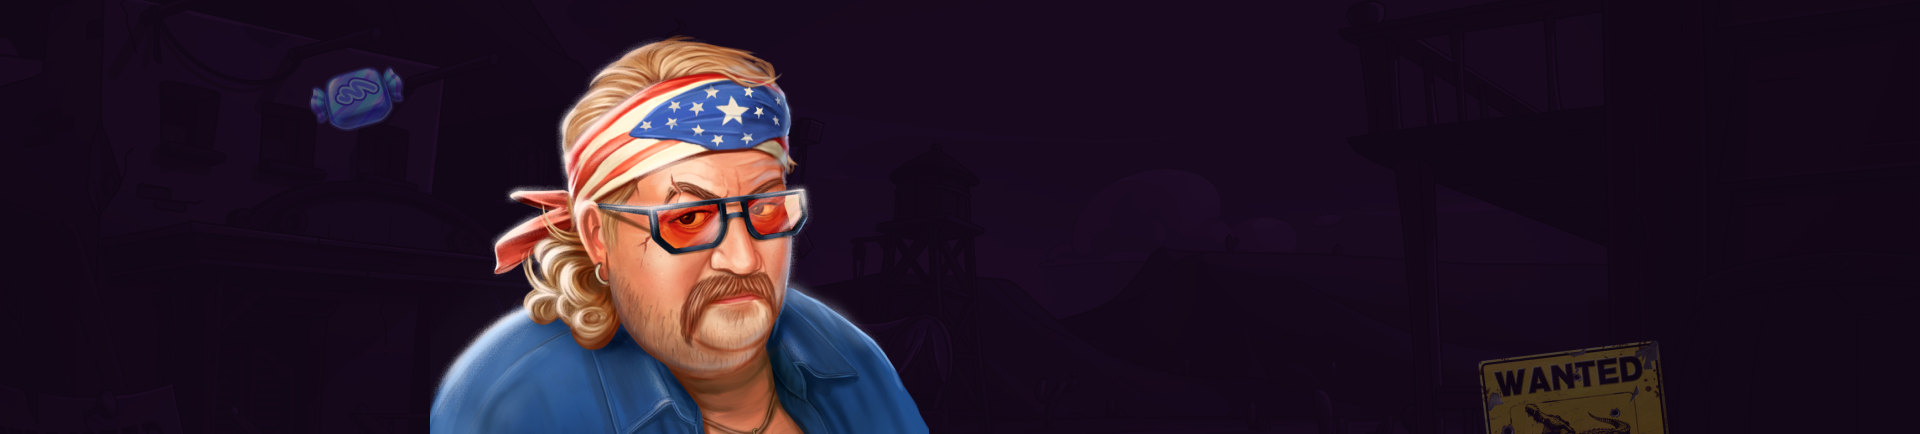
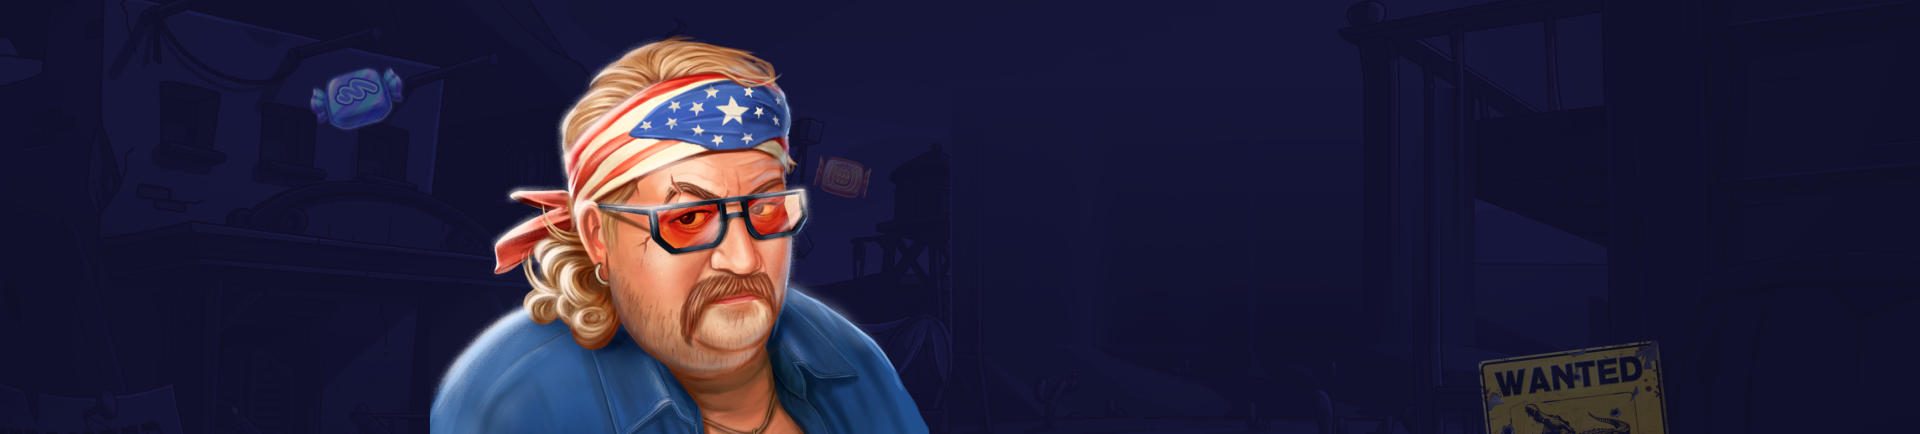
Fix VIP band colour and restore the frame's trailing space
The band rendered dark purple instead of the design's navy blue. The
artwork group exports fully opaque with its colour-dodge already
resolved against its own backdrop, so compositing it over #0e0e26 in
CSS could not recover the blend - measured (35,20,40) against a target
of (43,46,80), and no blend mode closed the gap.

vip-art.png is now Figma's render of the whole band, which composites
correctly, with the baked text painted out by vertical interpolation
across that region. The background there is near-uniform navy so the
patch is invisible, and the real copy is drawn over it as HTML.

Also adds the 367px of page background below the band that the Figma
Home Page frame has (frame 2424 tall, band ends at 2057).

diff --git a/css/style.css b/css/style.css
@@ -523,6 +523,10 @@ a { text-decoration: none; color: inherit; }
 
 /* ========================= HOME · VIP band (47:598) ===================== */
 
+/* The Figma Home Page frame is 2424 tall and the band ends at 2057, leaving
+   367px of page background below it. */
+.home { padding-bottom: 367px; }
+
 .vip {
   position: relative;
   height: 434px;

diff --git a/index.html b/index.html
@@ -31,7 +31,7 @@
   </div>
 </header>
 
-<main>
+<main class="home">
 
   <!-- ===================== hero (Figma 13:2) ===================== -->
   <section class="hero">

diff --git a/README.md b/README.md
@@ -90,9 +90,19 @@ interpretation, not a spec: the VIP band crops to a backdrop, the podium
 stacks 1st→3rd, and the ranks table drops the Wagered column under 900px.
 
 **The VIP band artwork is pre-flattened.** Figma composites it from five
-layers with a colour-dodge blend at 65%. CSS `mix-blend-mode` did not
-reproduce that stack (it blew out the sky), so the whole group is exported
-from Figma as one image, `vip-art.png`.
+layers, one of which colour-dodges at 65% against the `#0e0e26` base through
+a pass-through group. Neither CSS `mix-blend-mode` nor an export of the
+artwork group reproduces that: the group exports fully opaque with the dodge
+already resolved against its own backdrop, which comes out dark purple
+instead of navy blue (measured (35,20,40) against a target of (43,46,80), and
+no blend mode closed the gap).
+
+So `vip-art.png` is Figma's render of the whole band — the only node that
+composites correctly — with the baked heading, body copy and button painted
+out by interpolating vertically across that region. The background there is
+near-uniform navy (std ~2-7 per channel), so the patch is invisible, and the
+real text is drawn over it as HTML. If the band's artwork or the copy's
+position ever changes in Figma, this image has to be re-made the same way.
 
 ## Still open in the design
 
